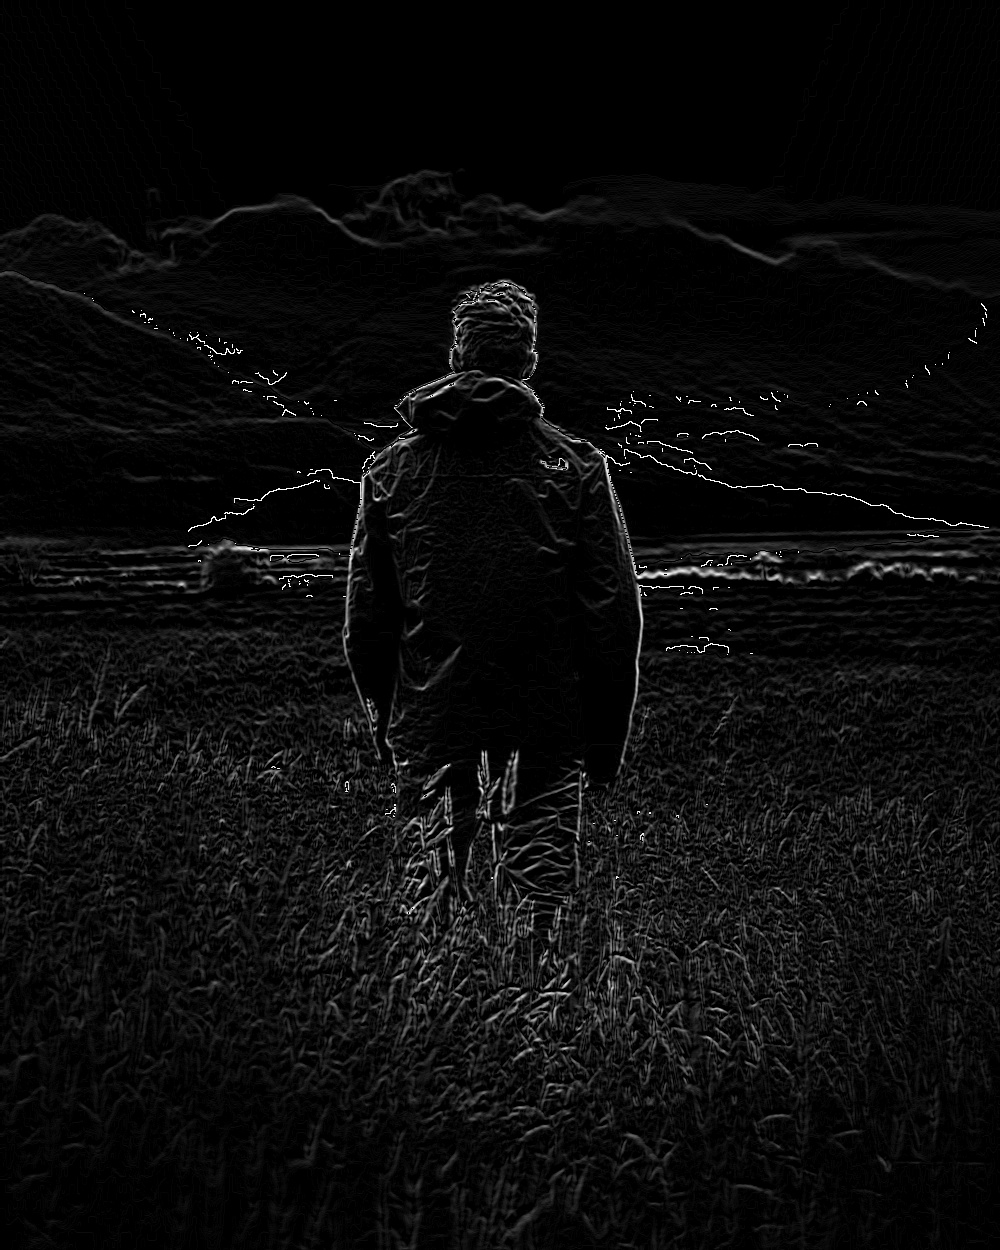
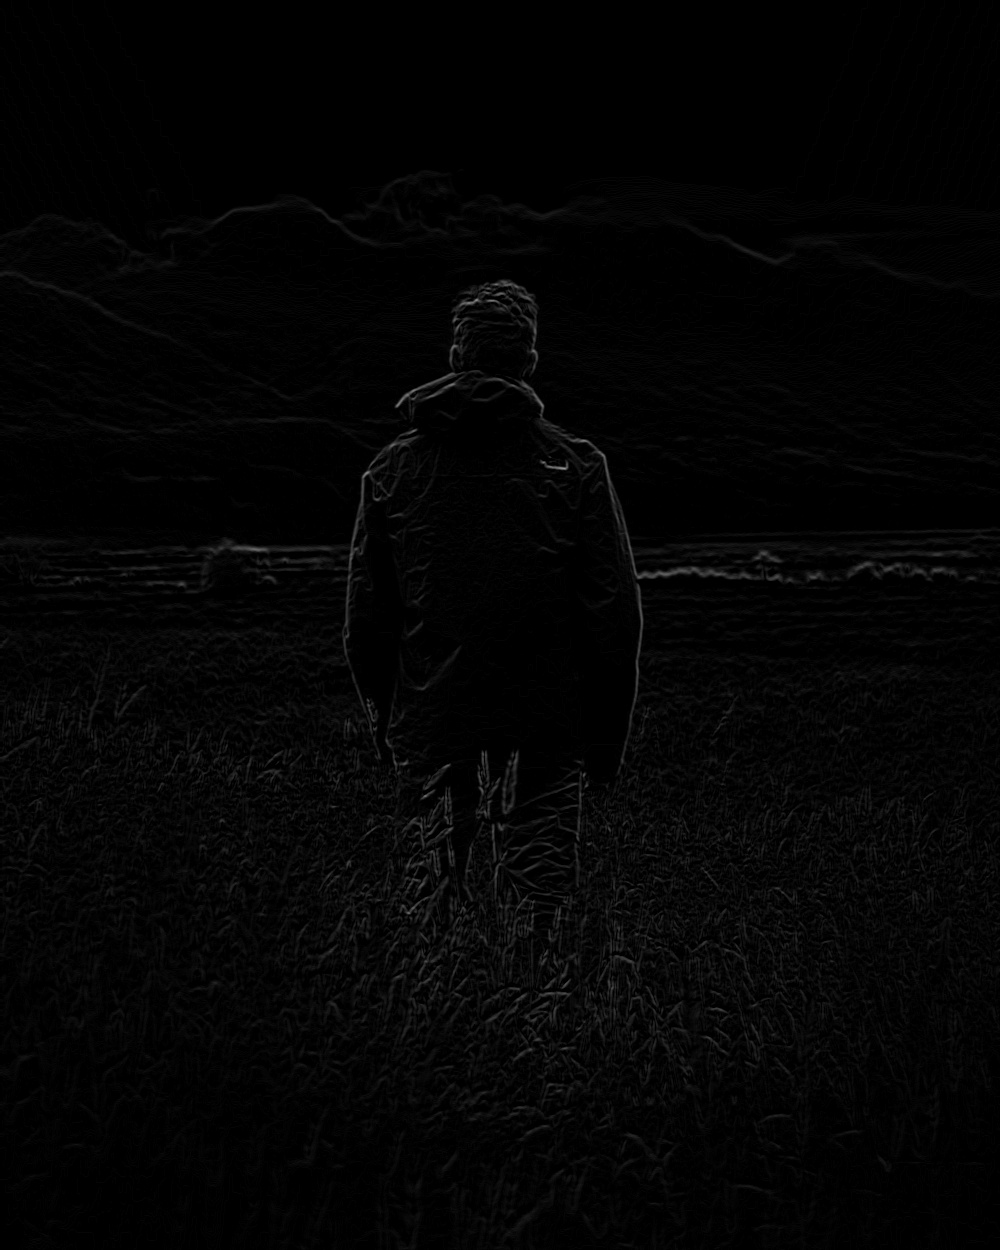
Dodajanje svoje konvolucije

diff --git a/ORV_N2.py b/ORV_N2.py
@@ -4,14 +4,27 @@ from matplotlib import pyplot as plt
 from matplotlib.widgets import Slider, Button
 from tkinter import *
 
+def convolution(slika, sig1, sig2):
+    conv = (len(sig1) - len(sig2)) * [0]
+
+    # Go through lag components one-by-one
+    for l in range(len(conv)):
+      for i in range(len(sig2)):
+        conv[l] += sig1[l-i+len(sig2)] * sig2[i]
+
+      conv[l] /= len(sig2) # Normalize
+
+    return conv
+
+
 def my_roberts(slika):
     kernelv = np.array( [[1, 0 ], [0,-1 ]] )
     kernelh = np.array( [[ 0, 1 ], [ -1, 0 ]] )
 
-    vertical = cv2.filter2D( slika, -1, kernelv )
-    horizontal = cv2.filter2D( slika, -1, kernelh )
-
-    slika_robov = cv2.add(vertical, horizontal)
+    #vertical = cv2.filter2D( slika, -1, kernelv )
+    #horizontal = cv2.filter2D( slika, -1, kernelh )
+    slika_robov = convolution(slika, kernelv, kernelh)
+    #slika_robov = cv2.add(vertical, horizontal)
     slika_robov*=3
     
     return slika_robov
@@ -20,10 +33,11 @@ def my_prewitt(slika):
     kernelv = np.array( [[1, 1, 1], [0, 0, 0], [-1, -1, -1]] )
     kernelh = np.array( [[-1, 0, 1], [-1, 0, 1], [-1, 0, 1]] )
 
-    vertical = cv2.filter2D(slika, -1, kernelv)
-    horizontal = cv2.filter2D(slika, -1, kernelh)
+    #vertical = cv2.filter2D(slika, -1, kernelv)
+    #horizontal = cv2.filter2D(slika, -1, kernelh)
 
-    slika_robov = cv2.add(vertical, horizontal)
+    slika_robov = convolution(slika, kernelv, kernelh)
+    #slika_robov = cv2.add(vertical, horizontal)
     #slika_robov*=3
 
     return slika_robov
@@ -32,10 +46,11 @@ def my_sobel(slika):
     kernelv = np.array( [[-1, 0, 1], [-2, 0, -2], [-1, 0, -1]] )
     kernelh = np.array( [[1, 2, 1], [0, 0, 0], [-1, -2, -1]] )
 
-    vertical = cv2.filter2D(slika, -1, kernelv)
-    horizontal = cv2.filter2D(slika, -1, kernelh)
+    #vertical = cv2.filter2D(slika, -1, kernelv)
+    #horizontal = cv2.filter2D(slika, -1, kernelh)
 
-    slika_robov = cv2.add(vertical, horizontal)
+    slika_robov = convolution(slika, kernelv, kernelh)
+    #slika_robov = cv2.add(vertical, horizontal)
     #slika_robov*=3
     
     return slika_robov
